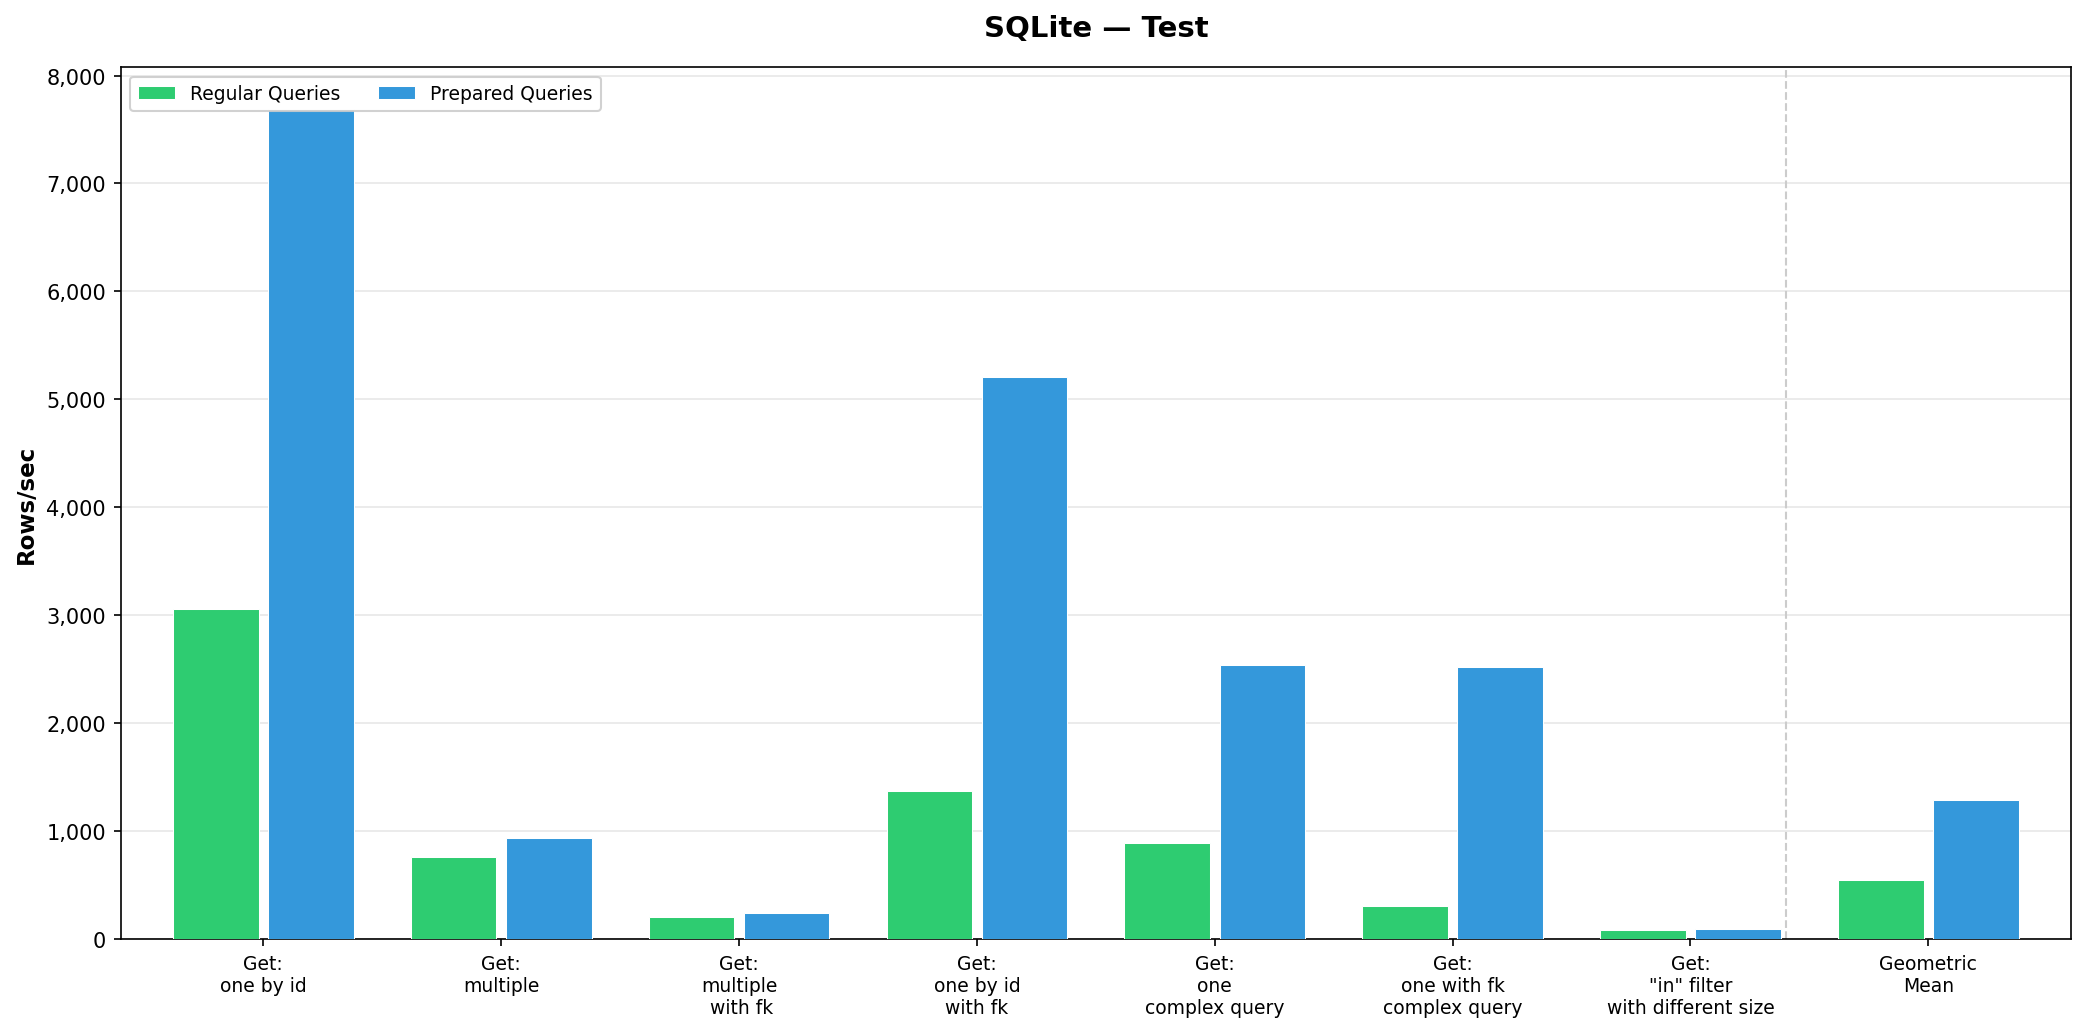
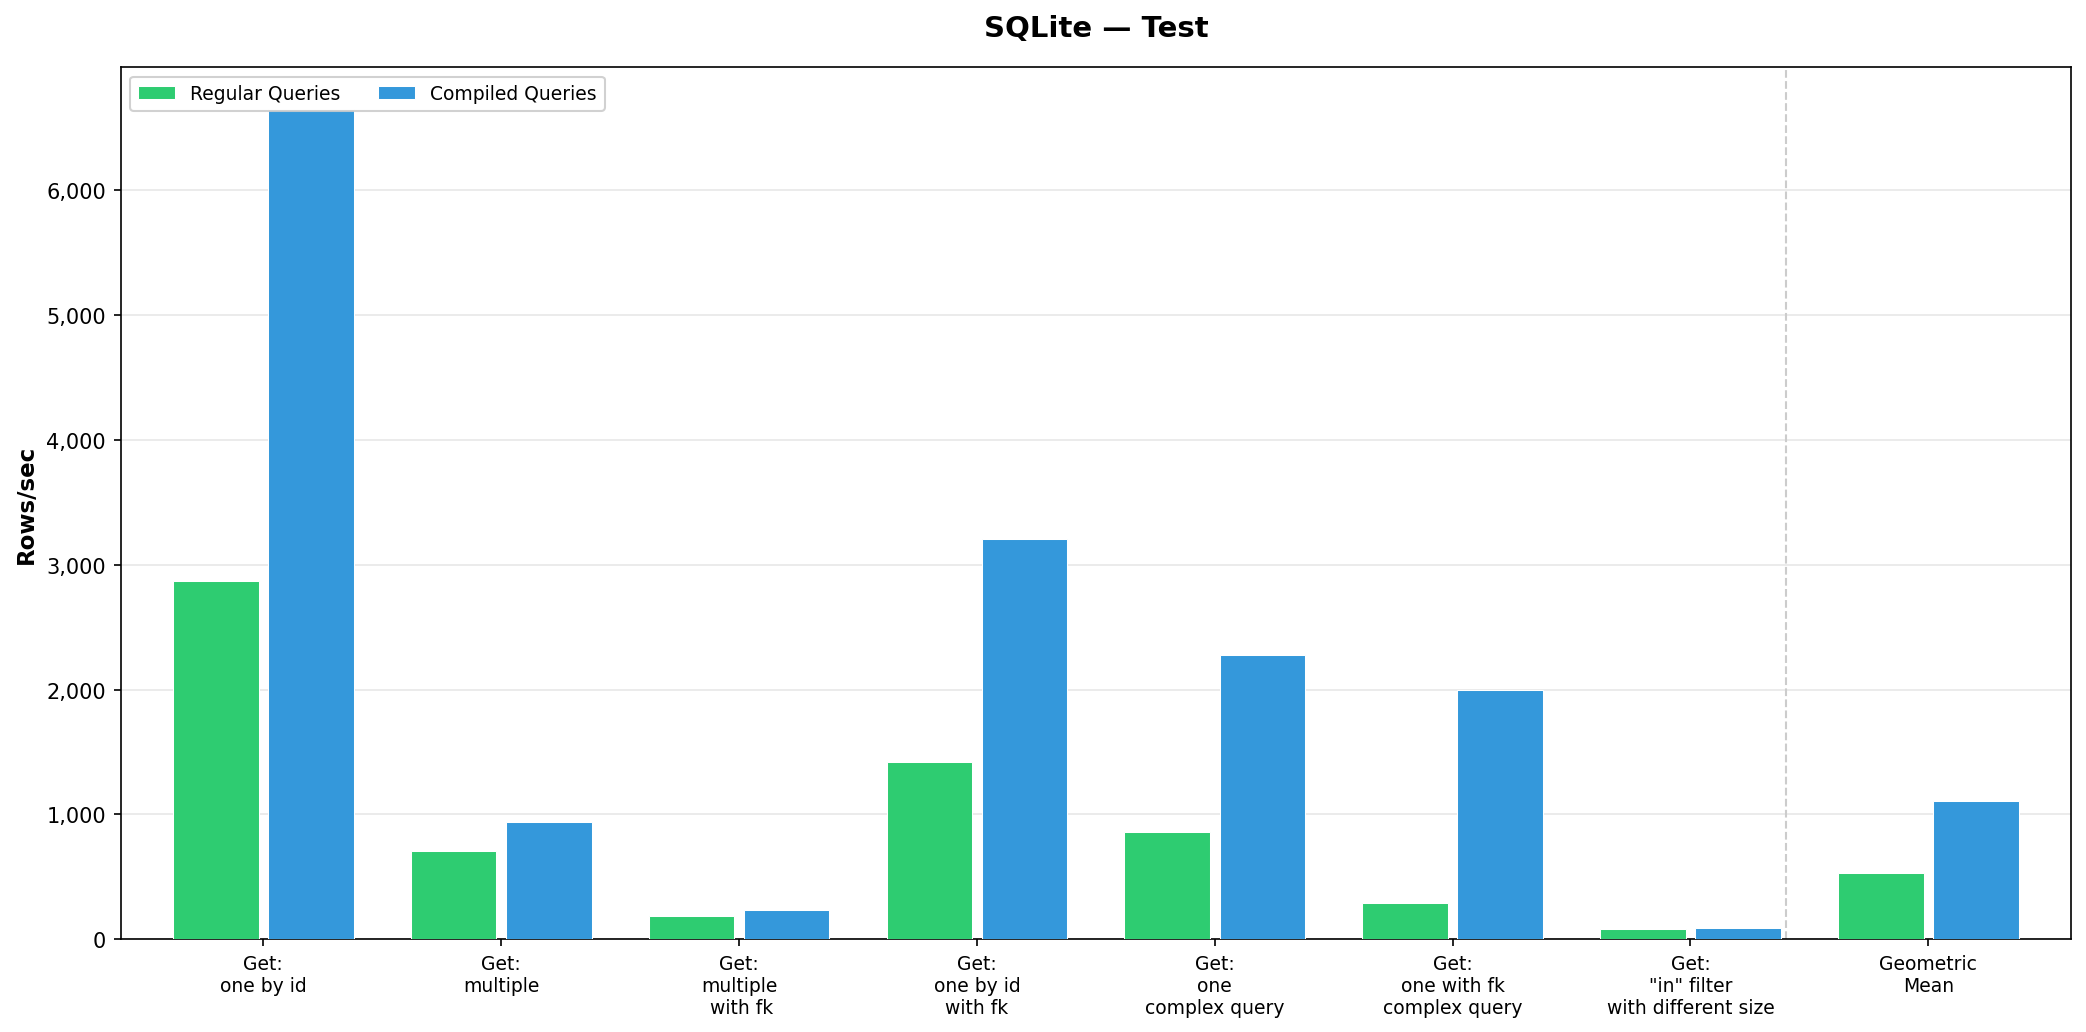
update benchmark results

diff --git a/bench/main.py b/bench/main.py
@@ -49,13 +49,13 @@ from .regular_queries import test_e as reg_test_e
 from .regular_queries import test_f as reg_test_f
 from .regular_queries import test_g as reg_test_g
 
-from .prepared_queries import test_a as pre_test_a
-from .prepared_queries import test_b as pre_test_b
-from .prepared_queries import test_c as pre_test_c
-from .prepared_queries import test_d as pre_test_d
-from .prepared_queries import test_e as pre_test_e
-from .prepared_queries import test_f as pre_test_f
-from .prepared_queries import test_g as pre_test_g
+from .compiled_queries import test_a as comp_test_a
+from .compiled_queries import test_b as comp_test_b
+from .compiled_queries import test_c as comp_test_c
+from .compiled_queries import test_d as comp_test_d
+from .compiled_queries import test_e as comp_test_e
+from .compiled_queries import test_f as comp_test_f
+from .compiled_queries import test_g as comp_test_g
 
 from tortoise import Tortoise, run_async
 
@@ -89,34 +89,34 @@ async def run_benchmarks_regular(random_state: tuple[int, ...] | None = None, pr
     await reg_test_g.runtest(loopstr, total_iterations, concurrents)
 
 
-async def run_benchmarks_prepared(random_state: tuple[int, ...] | None = None, print_header: bool = False) -> None:
+async def run_benchmarks_compiled(random_state: tuple[int, ...] | None = None, print_header: bool = False) -> None:
     if random_state is not None:
         random.setstate(random_state)
 
     if print_header:
         print("Prepared queries:")
 
-    await pre_test_a.runtest(loopstr, total_iterations, concurrents)
-    await pre_test_b.runtest(loopstr, total_iterations, concurrents)
-    await pre_test_c.runtest(loopstr, total_iterations, concurrents)
-    await pre_test_d.runtest(loopstr, total_iterations, concurrents)
-    await pre_test_e.runtest(loopstr, total_iterations, concurrents)
-    await pre_test_f.runtest(loopstr, total_iterations, concurrents)
-    await pre_test_g.runtest(loopstr, total_iterations, concurrents)
+    await comp_test_a.runtest(loopstr, total_iterations, concurrents)
+    await comp_test_b.runtest(loopstr, total_iterations, concurrents)
+    await comp_test_c.runtest(loopstr, total_iterations, concurrents)
+    await comp_test_d.runtest(loopstr, total_iterations, concurrents)
+    await comp_test_e.runtest(loopstr, total_iterations, concurrents)
+    await comp_test_f.runtest(loopstr, total_iterations, concurrents)
+    await comp_test_g.runtest(loopstr, total_iterations, concurrents)
 
 
-async def run_benchmarks(tests: list[Literal["regular", "prepared"]]):
+async def run_benchmarks(tests: list[Literal["regular", "compiled"]]):
     await create_db()
 
     random_state = random.getstate()
     if "regular" in tests:
         await run_benchmarks_regular(random_state, len(tests) > 1)
-    if "prepared" in tests:
-        await run_benchmarks_prepared(random_state, len(tests) > 1)
+    if "compiled" in tests:
+        await run_benchmarks_compiled(random_state, len(tests) > 1)
 
 
 def main() -> None:
-    available_tests = ("regular", "prepared")
+    available_tests = ("regular", "compiled")
 
     parser = ArgumentParser()
     parser.add_argument("tests", nargs="*", default=available_tests, choices=[*available_tests, available_tests])

diff --git a/bench/compiled_queries/test_e.py b/bench/compiled_queries/test_e.py
@@ -4,20 +4,18 @@ from tortoise.expressions import Q
 from tortoise.parameter import Parameter
 
 from bench.common.prepare_e import prepare_test, LEVEL_CHOICE
-from bench.models import FkToJournalBigs
-from bench.prepared_queries import NAME
+from bench.models import JournalBig
+from bench.compiled_queries import NAME
 from bench.utils import run_test
 
 
 async def _runtest(all_ids: list[int], count: int):
     for i in range(count):
-        await FkToJournalBigs.prepare_sql("prep_test_e").filter(
-            Q(journal1__level=Parameter("lvl"), id__in=Parameter("ids"))
-            | Q(journal2__level__in=Parameter("lvls"), id__gt=all_ids[int(len(all_ids) * 0.9)])
-            | Q(journal3__col_int3__gte=1000, journal4__col_int4__lte=10000)
-        ).order_by("id").select_related(
-            "journal1", "journal2", "journal3", "journal4"
-        ).order_by("id").first().prepared().execute(
+        await JournalBig.filter(
+            Q(level=Parameter("lvl"), id__in=Parameter("ids"))
+            | Q(level__in=Parameter("lvls"), id__gt=all_ids[int(len(all_ids) * 0.9)])
+            | Q(col_int3__gte=1000, col_int3__lte=10000)
+        ).order_by("id").first().compile("prep_test_e").execute(
             lvl=choice(LEVEL_CHOICE),
             ids=choices(all_ids, k=randint(5, 15)),
             lvls=choices(LEVEL_CHOICE, k=2),
@@ -28,7 +26,7 @@ async def runtest(loopstr: str, total_iters: int, concurrent: int) -> None:
     await run_test(
         loopstr=loopstr,
         tests_name=NAME,
-        test_name="F",
+        test_name="E",
         total_iters=total_iters,
         concurrent=concurrent,
         prepare_func=prepare_test,

diff --git a/bench/compiled_queries/test_f.py b/bench/compiled_queries/test_f.py
@@ -4,18 +4,20 @@ from tortoise.expressions import Q
 from tortoise.parameter import Parameter
 
 from bench.common.prepare_e import prepare_test, LEVEL_CHOICE
-from bench.models import JournalBig
-from bench.prepared_queries import NAME
+from bench.models import FkToJournalBigs
+from bench.compiled_queries import NAME
 from bench.utils import run_test
 
 
 async def _runtest(all_ids: list[int], count: int):
     for i in range(count):
-        await JournalBig.prepare_sql("prep_test_e").filter(
-            Q(level=Parameter("lvl"), id__in=Parameter("ids"))
-            | Q(level__in=Parameter("lvls"), id__gt=all_ids[int(len(all_ids) * 0.9)])
-            | Q(col_int3__gte=1000, col_int3__lte=10000)
-        ).order_by("id").first().prepared().execute(
+        await FkToJournalBigs.filter(
+            Q(journal1__level=Parameter("lvl"), id__in=Parameter("ids"))
+            | Q(journal2__level__in=Parameter("lvls"), id__gt=all_ids[int(len(all_ids) * 0.9)])
+            | Q(journal3__col_int3__gte=1000, journal4__col_int4__lte=10000)
+        ).order_by("id").select_related(
+            "journal1", "journal2", "journal3", "journal4"
+        ).order_by("id").first().compile("prep_test_e").execute(
             lvl=choice(LEVEL_CHOICE),
             ids=choices(all_ids, k=randint(5, 15)),
             lvls=choices(LEVEL_CHOICE, k=2),
@@ -26,7 +28,7 @@ async def runtest(loopstr: str, total_iters: int, concurrent: int) -> None:
     await run_test(
         loopstr=loopstr,
         tests_name=NAME,
-        test_name="E",
+        test_name="F",
         total_iters=total_iters,
         concurrent=concurrent,
         prepare_func=prepare_test,

diff --git a/bench/compiled_queries/test_a.py b/bench/compiled_queries/test_a.py
@@ -1,27 +1,26 @@
-from random import choice
+from random import randint
 
 from tortoise.parameter import Parameter
 
-from bench.common.prepare_b import prepare_test, LEVEL_CHOICE
+from bench.common.prepare_a import prepare_test
 from bench.models import JournalSmall
-from bench.prepared_queries import NAME
+from bench.compiled_queries import NAME
 from bench.utils import run_test
 
 
 async def _runtest(ids: tuple[int, int], count: int):
     min_id, max_id = ids
-    mid_id = min_id + (max_id - min_id) // 2
     for i in range(count):
-        await JournalSmall.prepare_sql("prep_test_b").filter(
-            id__gte=mid_id, level=Parameter("lvl"),
-        ).prepared().execute(lvl=choice(LEVEL_CHOICE))
+        await JournalSmall.get_or_none(
+            id=Parameter("search_id"),
+        ).compile("prep_test_a").execute(search_id=randint(min_id, max_id))
 
 
 async def runtest(loopstr: str, total_iters: int, concurrent: int) -> None:
     await run_test(
         loopstr=loopstr,
         tests_name=NAME,
-        test_name="B",
+        test_name="A",
         total_iters=total_iters,
         concurrent=concurrent,
         prepare_func=prepare_test,

diff --git a/bench/compiled_queries/test_b.py b/bench/compiled_queries/test_b.py
@@ -1,26 +1,27 @@
-from random import randint
+from random import choice
 
 from tortoise.parameter import Parameter
 
-from bench.common.prepare_a import prepare_test
+from bench.common.prepare_b import prepare_test, LEVEL_CHOICE
 from bench.models import JournalSmall
-from bench.prepared_queries import NAME
+from bench.compiled_queries import NAME
 from bench.utils import run_test
 
 
 async def _runtest(ids: tuple[int, int], count: int):
     min_id, max_id = ids
+    mid_id = min_id + (max_id - min_id) // 2
     for i in range(count):
-        await JournalSmall.prepare_sql("prep_test_a").get_or_none(
-            id=Parameter("search_id"),
-        ).prepared().execute(search_id=randint(min_id, max_id))
+        await JournalSmall.filter(
+            id__gte=mid_id, level=Parameter("lvl"),
+        ).compile("prep_test_b").execute(lvl=choice(LEVEL_CHOICE))
 
 
 async def runtest(loopstr: str, total_iters: int, concurrent: int) -> None:
     await run_test(
         loopstr=loopstr,
         tests_name=NAME,
-        test_name="A",
+        test_name="B",
         total_iters=total_iters,
         concurrent=concurrent,
         prepare_func=prepare_test,

diff --git a/bench/compiled_queries/test_c.py b/bench/compiled_queries/test_c.py
@@ -4,15 +4,15 @@ from tortoise.parameter import Parameter
 
 from bench.common.prepare_c import prepare_test, LEVEL_CHOICE
 from bench.models import JournalSmallFk
-from bench.prepared_queries import NAME
+from bench.compiled_queries import NAME
 from bench.utils import run_test
 
 
 async def _runtest(_: list[int], count: int):
     for i in range(count):
-        await JournalSmallFk.prepare_sql("prep_test_c").filter(
+        await JournalSmallFk.filter(
             level=Parameter("lvl"), parent_id__isnull=False,
-        ).select_related("parent").prepared().execute(lvl=choice(LEVEL_CHOICE))
+        ).select_related("parent").compile("prep_test_c").execute(lvl=choice(LEVEL_CHOICE))
 
 
 async def runtest(loopstr: str, total_iters: int, concurrent: int) -> None:

diff --git a/bench/compiled_queries/test_d.py b/bench/compiled_queries/test_d.py
@@ -4,15 +4,15 @@ from tortoise.parameter import Parameter
 
 from bench.common.prepare_d import prepare_test
 from bench.models import JournalSmallFk
-from bench.prepared_queries import NAME
+from bench.compiled_queries import NAME
 from bench.utils import run_test
 
 
 async def _runtest(all_ids: list[int], count: int):
     for i in range(count):
-        await JournalSmallFk.prepare_sql("prep_test_d").get(
+        await JournalSmallFk.get(
             id=Parameter("search_id"),
-        ).select_related("parent").prepared().execute(search_id=choice(all_ids))
+        ).select_related("parent").compile("prep_test_d").execute(search_id=choice(all_ids))
 
 
 async def runtest(loopstr: str, total_iters: int, concurrent: int) -> None:

diff --git a/bench/compiled_queries/test_g.py b/bench/compiled_queries/test_g.py
@@ -4,15 +4,15 @@ from tortoise.parameter import Parameter
 
 from bench.common.prepare_c import prepare_test
 from bench.models import JournalSmallFk
-from bench.prepared_queries import NAME
+from bench.compiled_queries import NAME
 from bench.utils import run_test
 
 
 async def _runtest(all_ids: list[int], count: int):
     for i in range(count):
-        await JournalSmallFk.prepare_sql("prep_test_g").filter(
+        await JournalSmallFk.filter(
             level__in=Parameter("ids"),
-        ).select_related("parent").prepared().execute(
+        ).select_related("parent").compile("prep_test_g").execute(
             ids=choices(all_ids, k=randint(1, len(all_ids))),
         )
 

diff --git a/generate_charts.py b/generate_charts.py
@@ -25,10 +25,10 @@ OPERATION_LABELS = {
 
 ORM_COLORS = {
     "Regular Queries": "#2ecc71",
-    "Prepared Queries": "#3498db",
+    "Compiled Queries": "#3498db",
 }
 
-ORM_ORDER = ["Regular Queries", "Prepared Queries"]
+ORM_ORDER = ["Regular Queries", "Compiled Queries"]
 OP_ORDER = list("ABCDEFG")
 
 

diff --git a/bench/compiled_queries/__init__.py b/bench/compiled_queries/__init__.py
@@ -1,0 +1,1 @@
+NAME = "Compiled Queries"

diff --git a/README.md b/README.md
@@ -17,7 +17,7 @@ uv run -m bench prepared >>/tmp/sqlite_outfile1
 uv run generate_charts.py
 ```
 
-Benchmark results for [69311e1](https://github.com/RuslanUC/tortoise-orm/commit/69311e12a415b29bcbc58ea901479f272800ec0a):
+Benchmark results for [ebd33cb](https://github.com/RuslanUC/tortoise-orm/commit/ebd33cbe56335afd6e42cb9cd80f89076afba558):
 ![](images/sqlite_test1.png)
 ![](images/pg_test1.png)
 ![](images/mysql_test1.png)
